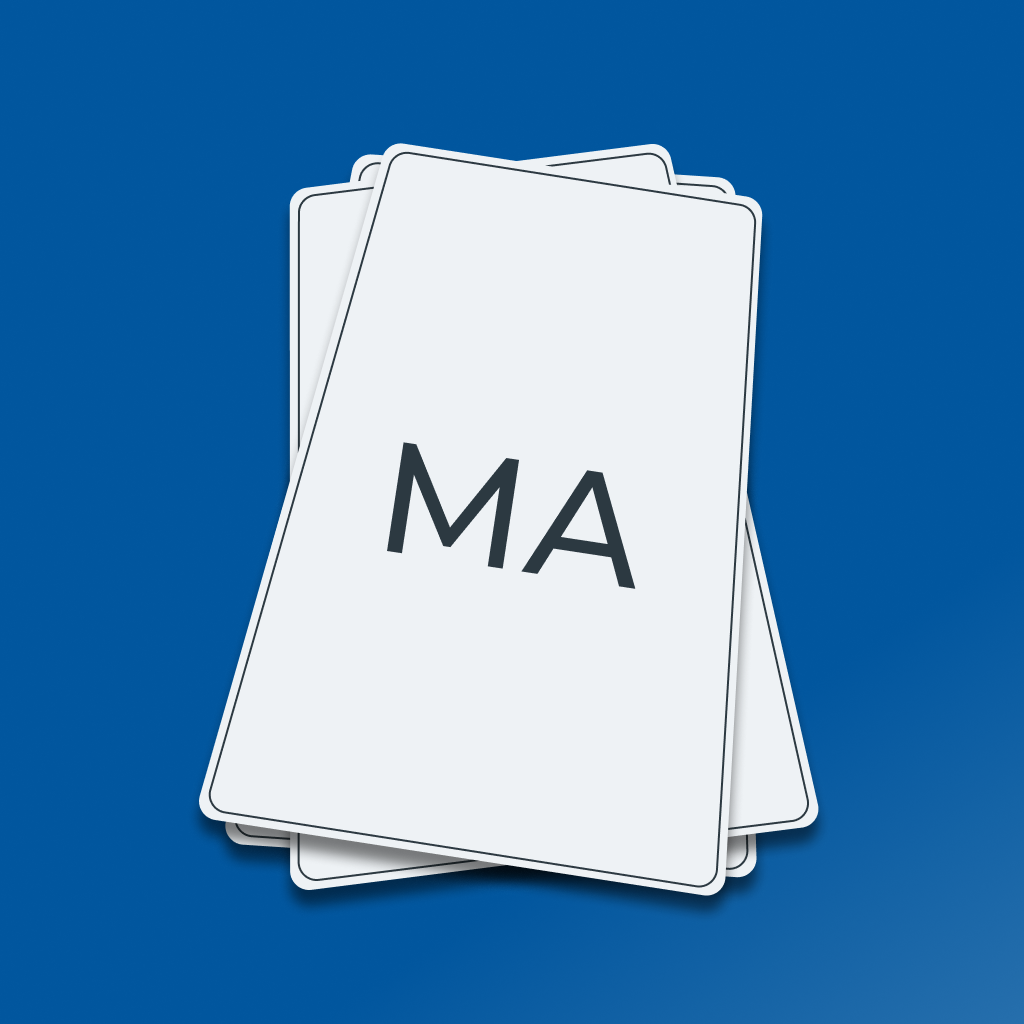
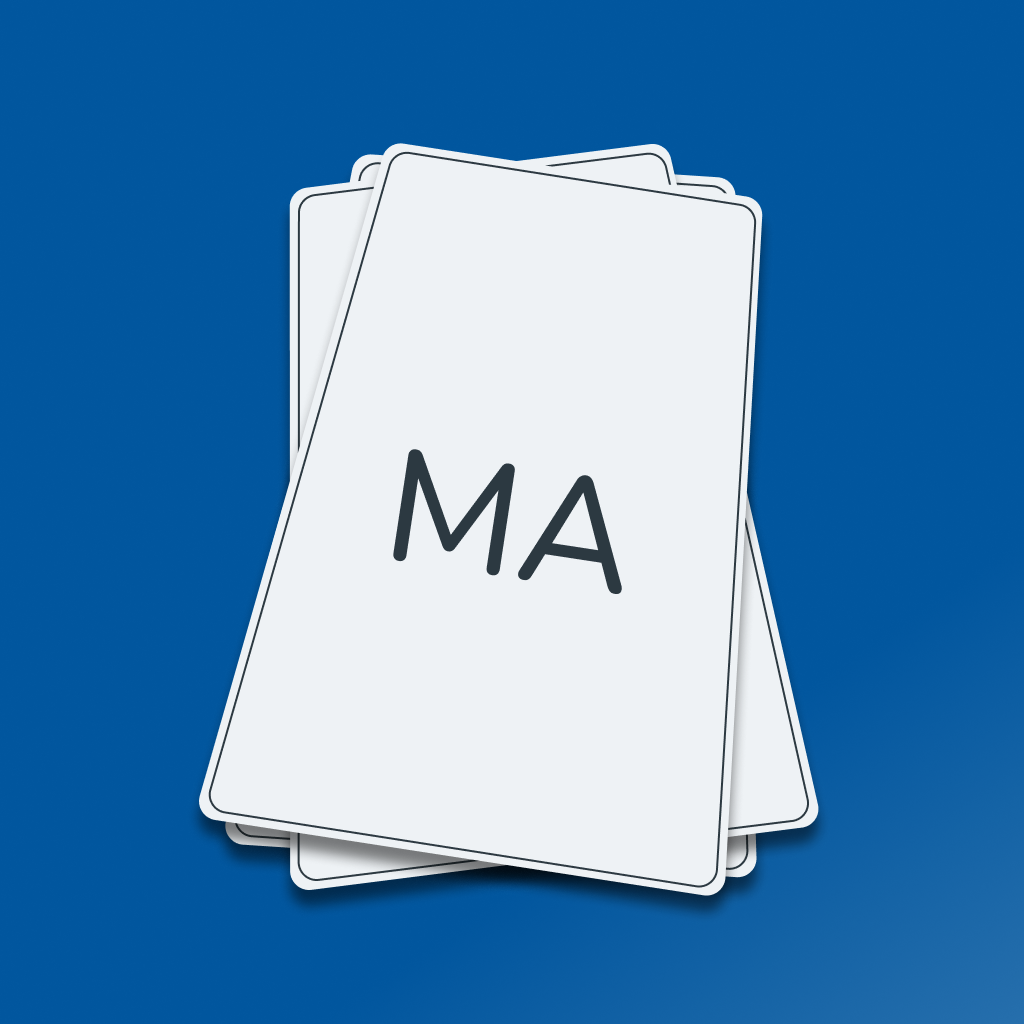
some changes

Changed region(s): [[0.375, 0.4375, 0.625, 0.5938]]

diff --git a/App.js b/App.js
@@ -1,6 +1,6 @@
 import { StatusBar } from "expo-status-bar";
 import { StyleSheet, View } from "react-native";
-import { useFonts, Montserrat_500Medium } from "@expo-google-fonts/montserrat";
+import { useFonts, Nunito_500Medium } from "@expo-google-fonts/nunito";
 import Card from "./Card";
 import { useSharedValue } from "react-native-reanimated";
 import { useEffect } from "react";
@@ -31,7 +31,7 @@ export default function App() {
   const shuffleBack = useSharedValue(false);
 
   let [fontsLoaded] = useFonts({
-    Montserrat_500Medium,
+    Nunito_500Medium,
   });
 
   if (!fontsLoaded) {

diff --git a/Card.js b/Card.js
@@ -14,6 +14,7 @@ import Animated, {
   withTiming,
 } from "react-native-reanimated";
 import { ReText, snapPoint } from "react-native-redash";
+import { Nunito_500Medium } from "@expo-google-fonts/nunito";
 
 const { width, height } = Dimensions.get("window");
 
@@ -185,5 +186,6 @@ const styles = StyleSheet.create({
   card_text: {
     color: "#2C3941",
     fontSize: CARD_WIDTH - 130,
+    fontFamily: "Nunito_500Medium",
   },
 });
